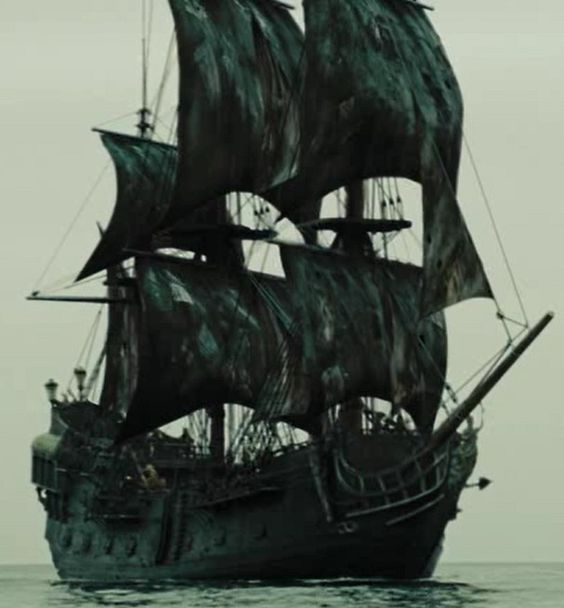
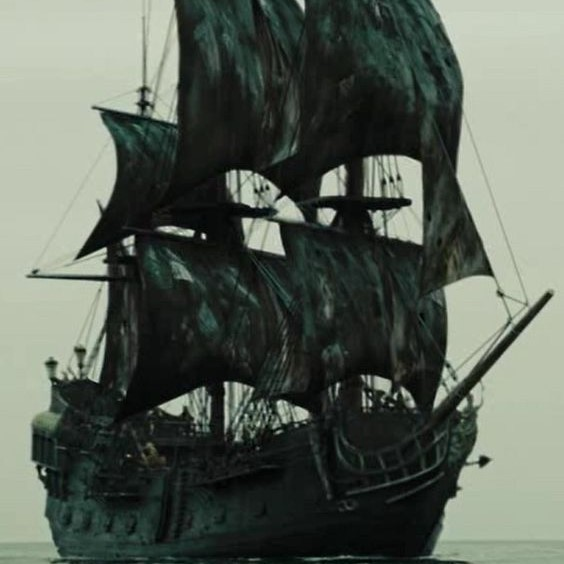
Add additional image, fixed some grid/flex properties

diff --git a/style.css b/style.css
@@ -191,8 +191,8 @@ When naming classes, use this format: .yourpage-thing
 
 .soundtrack_content {
     max-width: 100%;
-    justify-self: center;
-    margin: 20px;
+    justify-content: center;
+    margin-top: 30px;
   }
 
   .soundtrack_hero {
@@ -241,8 +241,9 @@ When naming classes, use this format: .yourpage-thing
   }
 
   .soundtrack_content_composers_container, .soundtrack_content_theme_container {
-    margin-top: 50px;
     max-width: 80vw;
+    margin: auto;
+
   }
 
   .soundtrack_theme_img, .soundtrack_composer_img {
@@ -263,40 +264,41 @@ When naming classes, use this format: .yourpage-thing
   }
 
   .soundtrack_content_tracks_container {
-    max-width: 75vw;
-    display: flex; 
-    column-gap: 30px;
+    display: grid;
+    grid-template-columns: repeat(5, 1fr);
+    grid-auto-rows: 350px;
+    column-gap: 50px;
+    row-gap: 10px;
+    justify-items: center; 
     margin-top: 100px;
+    justify-content: center;
+  }
+
+  .soundtrack_h3 {
   }
 
   .soundtrack_notable_tracks {
-    display: grid;
-    grid-template-areas: 
-    'title title'
-    'picture content'
-    'listen listen';
-    max-width: 75vw;
-    column-gap: 30px;
-    row-gap: 10px;
-    grid-template-columns: 100px 250px;
-    grid-template-rows: 30px .5fr 30px;
+    
   }
 
   .soundtrack_listen {
     text-decoration: none;
     color: #bb2326;
     text-transform: uppercase;
-    grid-area: listen;
-    grid-row: 3;
   }
 
   .soundtrack_track_description {
-    grid-area: content;
+    margin-bottom: 20px;
   }
 
   .soundtrack_track_title {
-    grid-area: title;
     font-weight: bold;
+    margin-bottom: 15px;
+  }
+
+  .soundtrack_tracks_img {
+    float: left;
+    margin-right: 15px;
   }
 
   /*END SOUNDTRACK PAGE STYLES*/

diff --git a/soundtrack.html b/soundtrack.html
@@ -33,7 +33,7 @@
             </div>
             <div class="soundtrack_content_theme_container">
                 <h3 class="soundtrack_h3">Themes</h3>
-                <img class="soundtrack_theme_img" src="Images\Klaus-Badelt.jpg" alt="Portrait of composer Hans Zimmer at a piano">
+                <img class="soundtrack_theme_img" src="Images\Black-Pearl.jpeg" alt="Image of the Black Pearl pirate ship">
                 <p class="soundtrack_theme_text">The movie soundtrack has several main "themes" that accompany key points of the movie are are repeated throughout. These are called "leitmotifs," and are often associated with certain characters, places, objects (like the <i>Black Pearl),</i> or emotions. Examples in <i>Curse of the Black Pearl</i> include Jack Sparrow, Davy Jones, the "love" theme, the "swashbuckling" theme, and the "main" theme.<p>
             </div>
             <div class="soundtrack_content_tracks_container">
